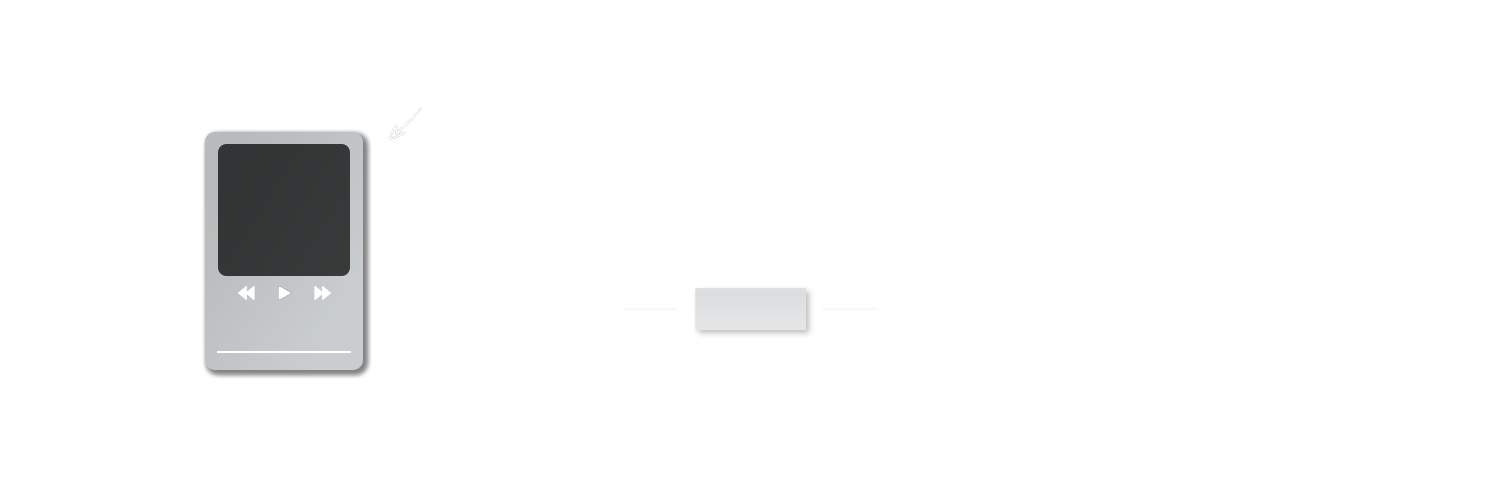
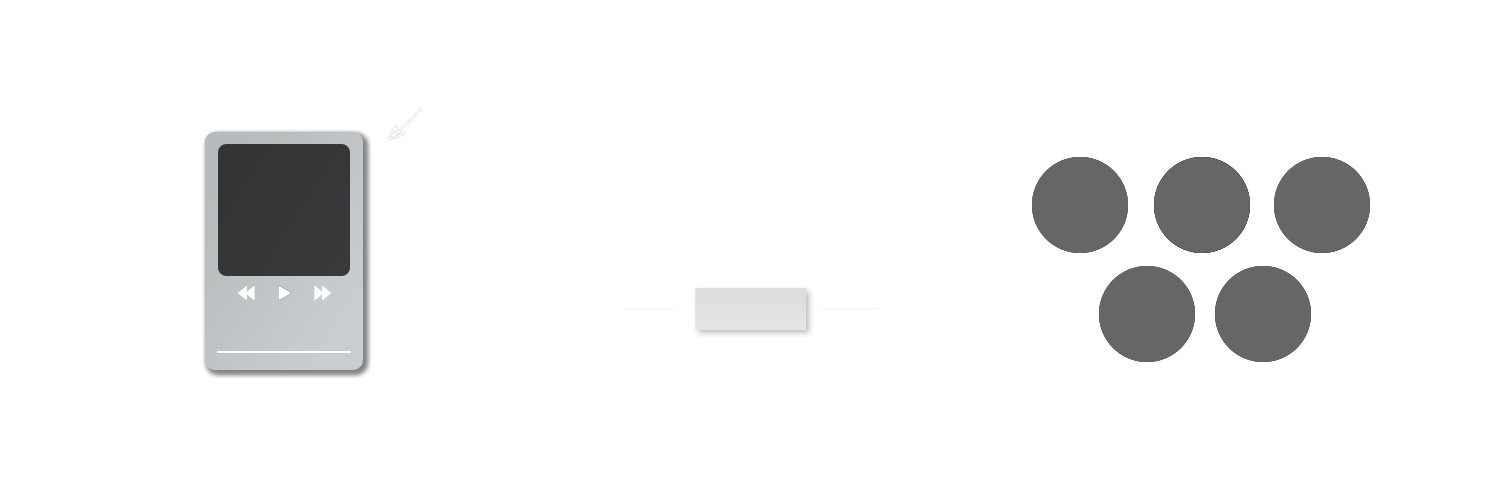
Add 5 latest follower overlay

Changed region(s): [[0.6747, 0.3, 0.92, 0.51], [0.7053, 0.51, 0.8893, 0.72]]

diff --git a/index.js b/index.js
@@ -16,6 +16,8 @@ const masto = await login({
   accessToken: process.env.TOKEN,
 });
 
+const account = await masto.v1.accounts.verifyCredentials();
+
 // Randomize function
 Array.prototype.random = function () {
   return this[Math.floor((Math.random()*this.length))];
@@ -202,6 +204,58 @@ let trimString = function(string, length) {
     string;
 };
 
+// Function to get recent folowers
+async function getLatestFollowers() {
+  const data = await masto.v1.accounts
+  .listFollowers(
+      account.id,
+          {
+              limit: 5,
+          }
+  );
+  console.log('Get 5 lastest followers...');
+
+  let count = 0;
+  const download = new Promise((resolve, reject) => {
+      data.forEach((data, index, arr) => {
+          downloadImage(data.avatar, `${index}.png`).then(() => {
+              count++;
+              if (count === arr.length) resolve();
+              console.log('Downloading avatar', `${index}.png..`)
+            });
+      })
+  })
+
+  download.then(() => {
+    downloadAlbumImage()
+  })
+}
+
+// Function to resize downloaded avatar
+async function downloadImage(url, image_path) {
+  await axios({
+    url,
+    responseType: 'arraybuffer',
+  }).then(
+    (response) =>
+      new Promise((resolve, reject) => {
+        resolve(sharp(response.data)
+          .grayscale()
+          .resize(96, 96)
+          .composite([{
+            input: circleShape,
+            blend: 'dest-in'
+          }])
+          .toFile(image_path));
+      })
+  );
+}
+
+// Function to crop image
+const width = 96, // avatar size
+  r = width / 2, // for circle avatar
+  circleShape = Buffer.from(`<svg><circle cx="${r}" cy="${r}" r="${r}" /></svg>`);
+
 // Update profile
 async function uploadBanner() {
   const base64 = new Blob([await fs.readFileSync('1500x500.png')]);
@@ -232,7 +286,7 @@ async function updateProfile(names) {
 async function drawBanner() {
   const [day, date, month, year, fullDate, fullTime, seconds] = currentTime();
   const [hariMundur, jamMundur, menitMundur, detikMundur] = hitungMundur();
-  const images = ['default.png', 'overlay.png', 'trackCover.png'];
+  const images = ['default.png', 'overlay.png', '0.png', '1.png', '2.png', '3.png', '4.png', 'trackCover.png'];
   const promiseArray = [];
 
   const dayFont = await Jimp.loadFont('fonts/Avigea/avigea-white-72.fnt');
@@ -249,8 +303,13 @@ async function drawBanner() {
   promiseArray.push(getRecentArtist());
 
   Promise.all(promiseArray).then(
-    ([banner, overlay, trackCover, greeting, nowPlaying, trackTitle, trackArtist]) => {
+    ([banner, overlay, ava0, ava1, ava2, ava3, ava4, trackCover, greeting, nowPlaying, trackTitle, trackArtist]) => {
       banner.composite(overlay, 0, 0);
+      banner.composite(ava0, 1032, 157);
+      banner.composite(ava1, 1154, 157);
+      banner.composite(ava2, 1274, 157);
+      banner.composite(ava3, 1099, 266);
+      banner.composite(ava4, 1215, 266);
       banner.composite(trackCover, 219, 145);
       banner.print(dayFont, 0, 58, {
         text: day, // Wednesday
@@ -300,11 +359,11 @@ async function drawBanner() {
 
 // Starter
 keepAlive(); // for uptimerobot webserver
-downloadAlbumImage();
+getLatestFollowers();
 
 // Set loop interval every millisec
 setInterval(() => {
-  downloadAlbumImage();
+  getLatestFollowers();
 }, 60000);
 
 
